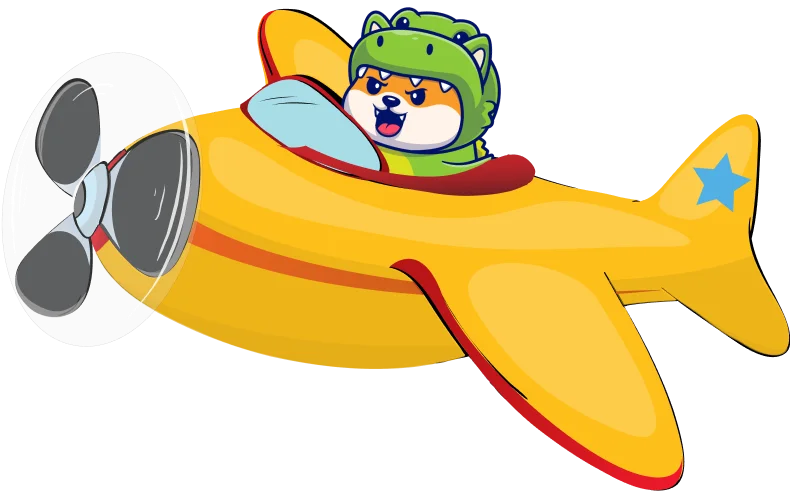
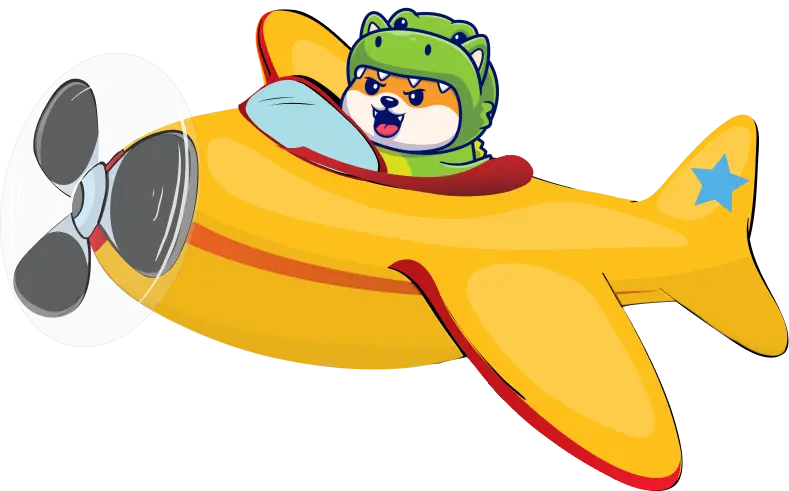
replaced images in hero section

diff --git a/src/components/Faq.jsx b/src/components/Faq.jsx
@@ -4,7 +4,7 @@ import Faqlayer1 from '../assets/images/faqlayer1.webp';
 function Arrow({ id, open }) {
     return (
         <div className="relative ">
-            <svg className={`${id === open ? "rotate-180" : "rotate-0"}  sm:mr-12   transition-transform`} width="36" height="36" viewBox="0 0 36 36" fill="none" xmlns="http://www.w3.org/2000/svg">
+            <svg className={`${id === open ? "rotate-180" : "rotate-0"}  sm:mr-6   transition-transform`} width="36" height="36" viewBox="0 0 36 36" fill="none" xmlns="http://www.w3.org/2000/svg">
                 <circle cx="18" cy="18" r="18" transform="matrix(-4.37114e-08 -1 -1 4.37114e-08 36 36)" fill="white" />
                 <path d="M12.2857 14L18 19.625L23.7143 14L26 15.125L18 23L10 15.125L12.2857 14Z" fill="#0A4740" />
             </svg>

diff --git a/src/components/Hero.jsx b/src/components/Hero.jsx
@@ -1,5 +1,5 @@
 import React from 'react'
-import Aeroplane from '../assets/images/aeroplane.webp';
+import Aeroplane from '../assets/images/aeroplane2.png';
 import CycleDino from '../assets/images/bycyclecroco.webp';
 import SmallCycle from '../assets/images/footcyclecroco.webp';
 const Hero = () => {
